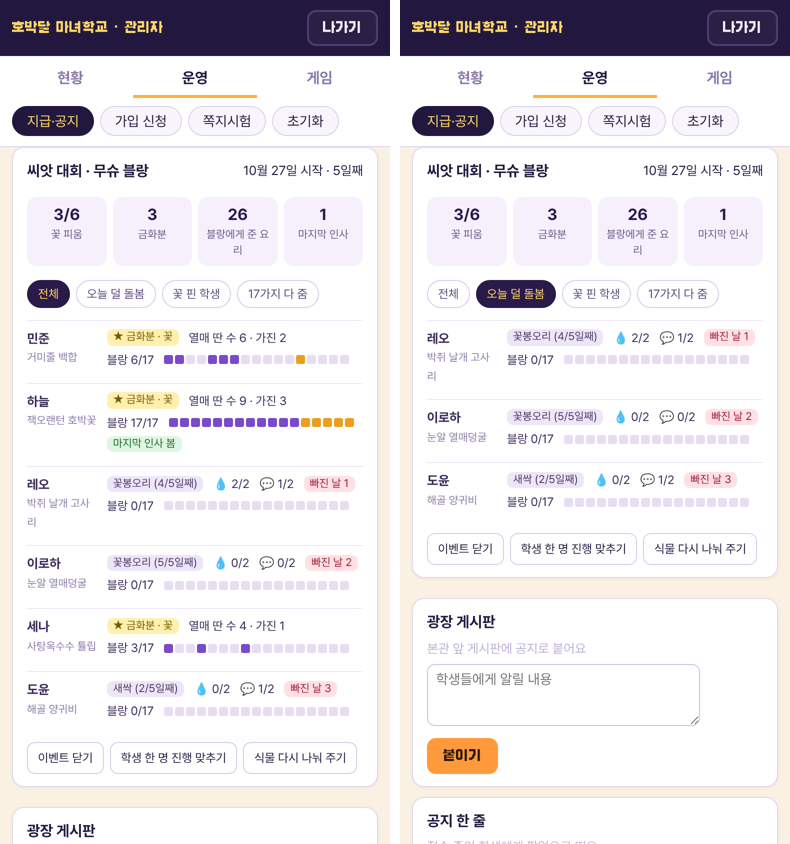
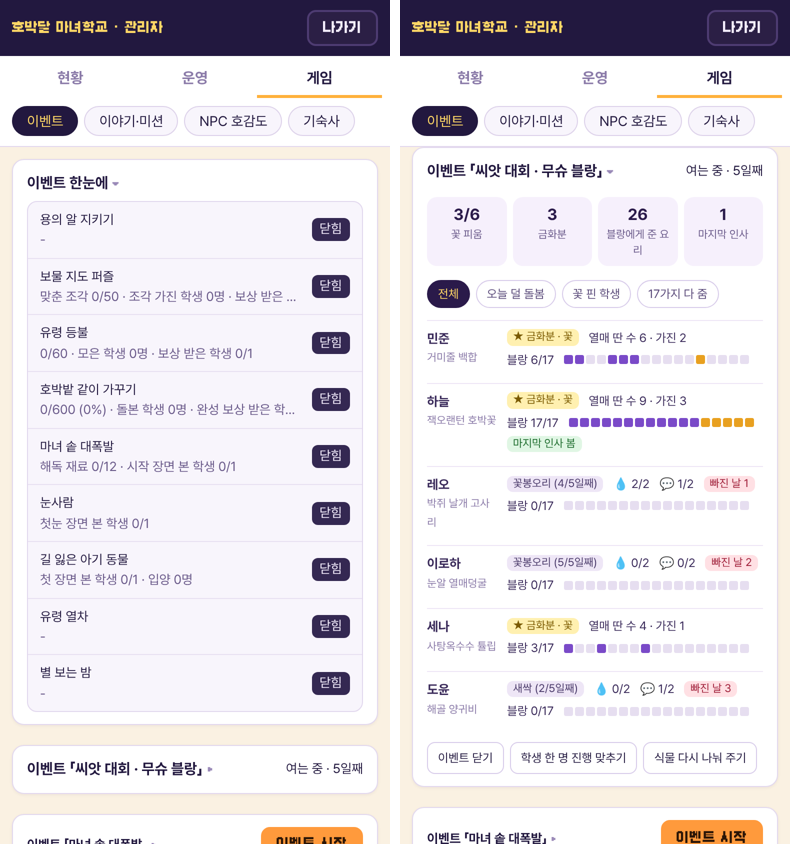
씨앗 대회 관리자 시안: 이벤트 탭의 접는 카드로(다른 이벤트처럼 제목을 누르면 펼침)
Claude-Session: https://claude.ai/code/session_01HhJ2NoNCjk5kaA3GWL7UDs

diff --git a/tools/seed_mock/admin_inject.js b/tools/seed_mock/admin_inject.js
@@ -1,4 +1,4 @@
-// 시안: 관리자 「씨앗 대회 · 무슈 블랑」 진행도 카드 (목업 전용 · 예시 학생 데이터)
+// 시안: 관리자 「이벤트」 탭의 접는 카드 「씨앗 대회 · 무슈 블랑」 (다른 이벤트 카드처럼 제목을 누르면 펼쳐요) · 목업 전용 · 예시 학생 데이터
 (function(){
 const css = document.createElement('style'); css.textContent = `
 #sdad{margin:10px 0}#sdad .hd{display:flex;justify-content:space-between;align-items:center;gap:8px}#sdad .hd b{font-size:15px}#sdad .sum{display:grid;grid-template-columns:repeat(4,1fr);gap:6px;margin:8px 0}
@@ -16,10 +16,10 @@ const S = [   // 이름 · 식물 · 단계(0~5) · 오늘 물 · 오늘 말 · 
   ['레오', '박쥐 날개 고사리', 3, 2, 1, 1, [0, 0], [], 0], ['이로하', '눈알 열매덩굴', 4, 0, 0, 2, [0, 0], [], 0], ['세나', '사탕옥수수 튤립', 5, 2, 2, 0, [4, 1], [0, 3, 7], 0],
   ['도윤', '해골 양귀비', 1, 0, 1, 3, [0, 0], [], 0]];
 const gold = r => r[2] === 5 && r[5] === 0;
-let f = 'all';
+let f = 'all', open = false;
 function html(){
   const L = S.filter(r => f === 'all' || (f === 'need' && (r[3] < 2 || r[4] < 2) && r[2] < 5) || (f === 'bloom' && r[2] === 5) || (f === 'done' && r[8]));
-  return `<div class="adcard" id="sdad"><div class="hd"><b>씨앗 대회 · 무슈 블랑</b><span class="s">10월 27일 시작 · 5일째</span></div>
+  return `<div class="adcard adfold${open ? '' : ' shut'}" id="sdad"><div class="abhead adfh hd"><b>이벤트 「씨앗 대회 · 무슈 블랑」</b><span class="s">여는 중 · 5일째</span></div>
   <div class="sum"><div><b>${S.filter(r => r[2] === 5).length}/${S.length}</b>꽃 피움</div><div><b>${S.filter(gold).length}</b>금화분</div><div><b>${S.reduce((a, r) => a + r[7].length, 0)}</b>블랑에게 준 요리</div><div><b>${S.filter(r => r[8]).length}</b>마지막 인사</div></div>
   <div class="flt">${[['all', '전체'], ['need', '오늘 덜 돌봄'], ['bloom', '꽃 핀 학생'], ['done', '17가지 다 줌']].map(([k, n]) => `<button class="${f === k ? 'on' : ''}" data-sdf="${k}">${n}</button>`).join('')}</div>
   ${L.map(r => `<div class="row"><div class="nm"><b>${r[0]}</b><span>${r[1]}</span></div><div>
@@ -29,6 +29,7 @@ function html(){
   </div></div>`).join('') || '<div class="s">해당하는 학생이 없어요</div>'}
   <div class="btns"><button>이벤트 닫기</button><button>학생 한 명 진행 맞추기</button><button>식물 다시 나눠 주기</button></div></div>`;
 }
-function paint(){ let el = document.getElementById('sdad'); const host = document.querySelector('.adcard')?.parentNode || document.body; if (el) el.outerHTML = html(); else host.insertAdjacentHTML('afterbegin', html()); document.querySelectorAll('[data-sdf]').forEach(b => b.onclick = () => { f = b.dataset.sdf; paint(); }); }
-window.__sdAdPaint = paint; window.__sdAdF = k => { f = k; paint(); }; paint();
+function paint(){ let el = document.getElementById('sdad'); const first = document.querySelector('.adbody > .adcard'); if (el) el.outerHTML = html(); else if (first) first.insertAdjacentHTML('afterend', html()); else document.querySelector('.adbody')?.insertAdjacentHTML('afterbegin', html());
+  document.querySelectorAll('[data-sdf]').forEach(b => b.onclick = () => { f = b.dataset.sdf; paint(); }); const h = document.querySelector('#sdad > .adfh'); if (h) h.onclick = () => { open = !open; paint(); }; }
+window.__sdAdPaint = paint; window.__sdAdF = k => { f = k; paint(); }; window.__sdAdOpen = v => { open = v; paint(); }; paint();
 })();
